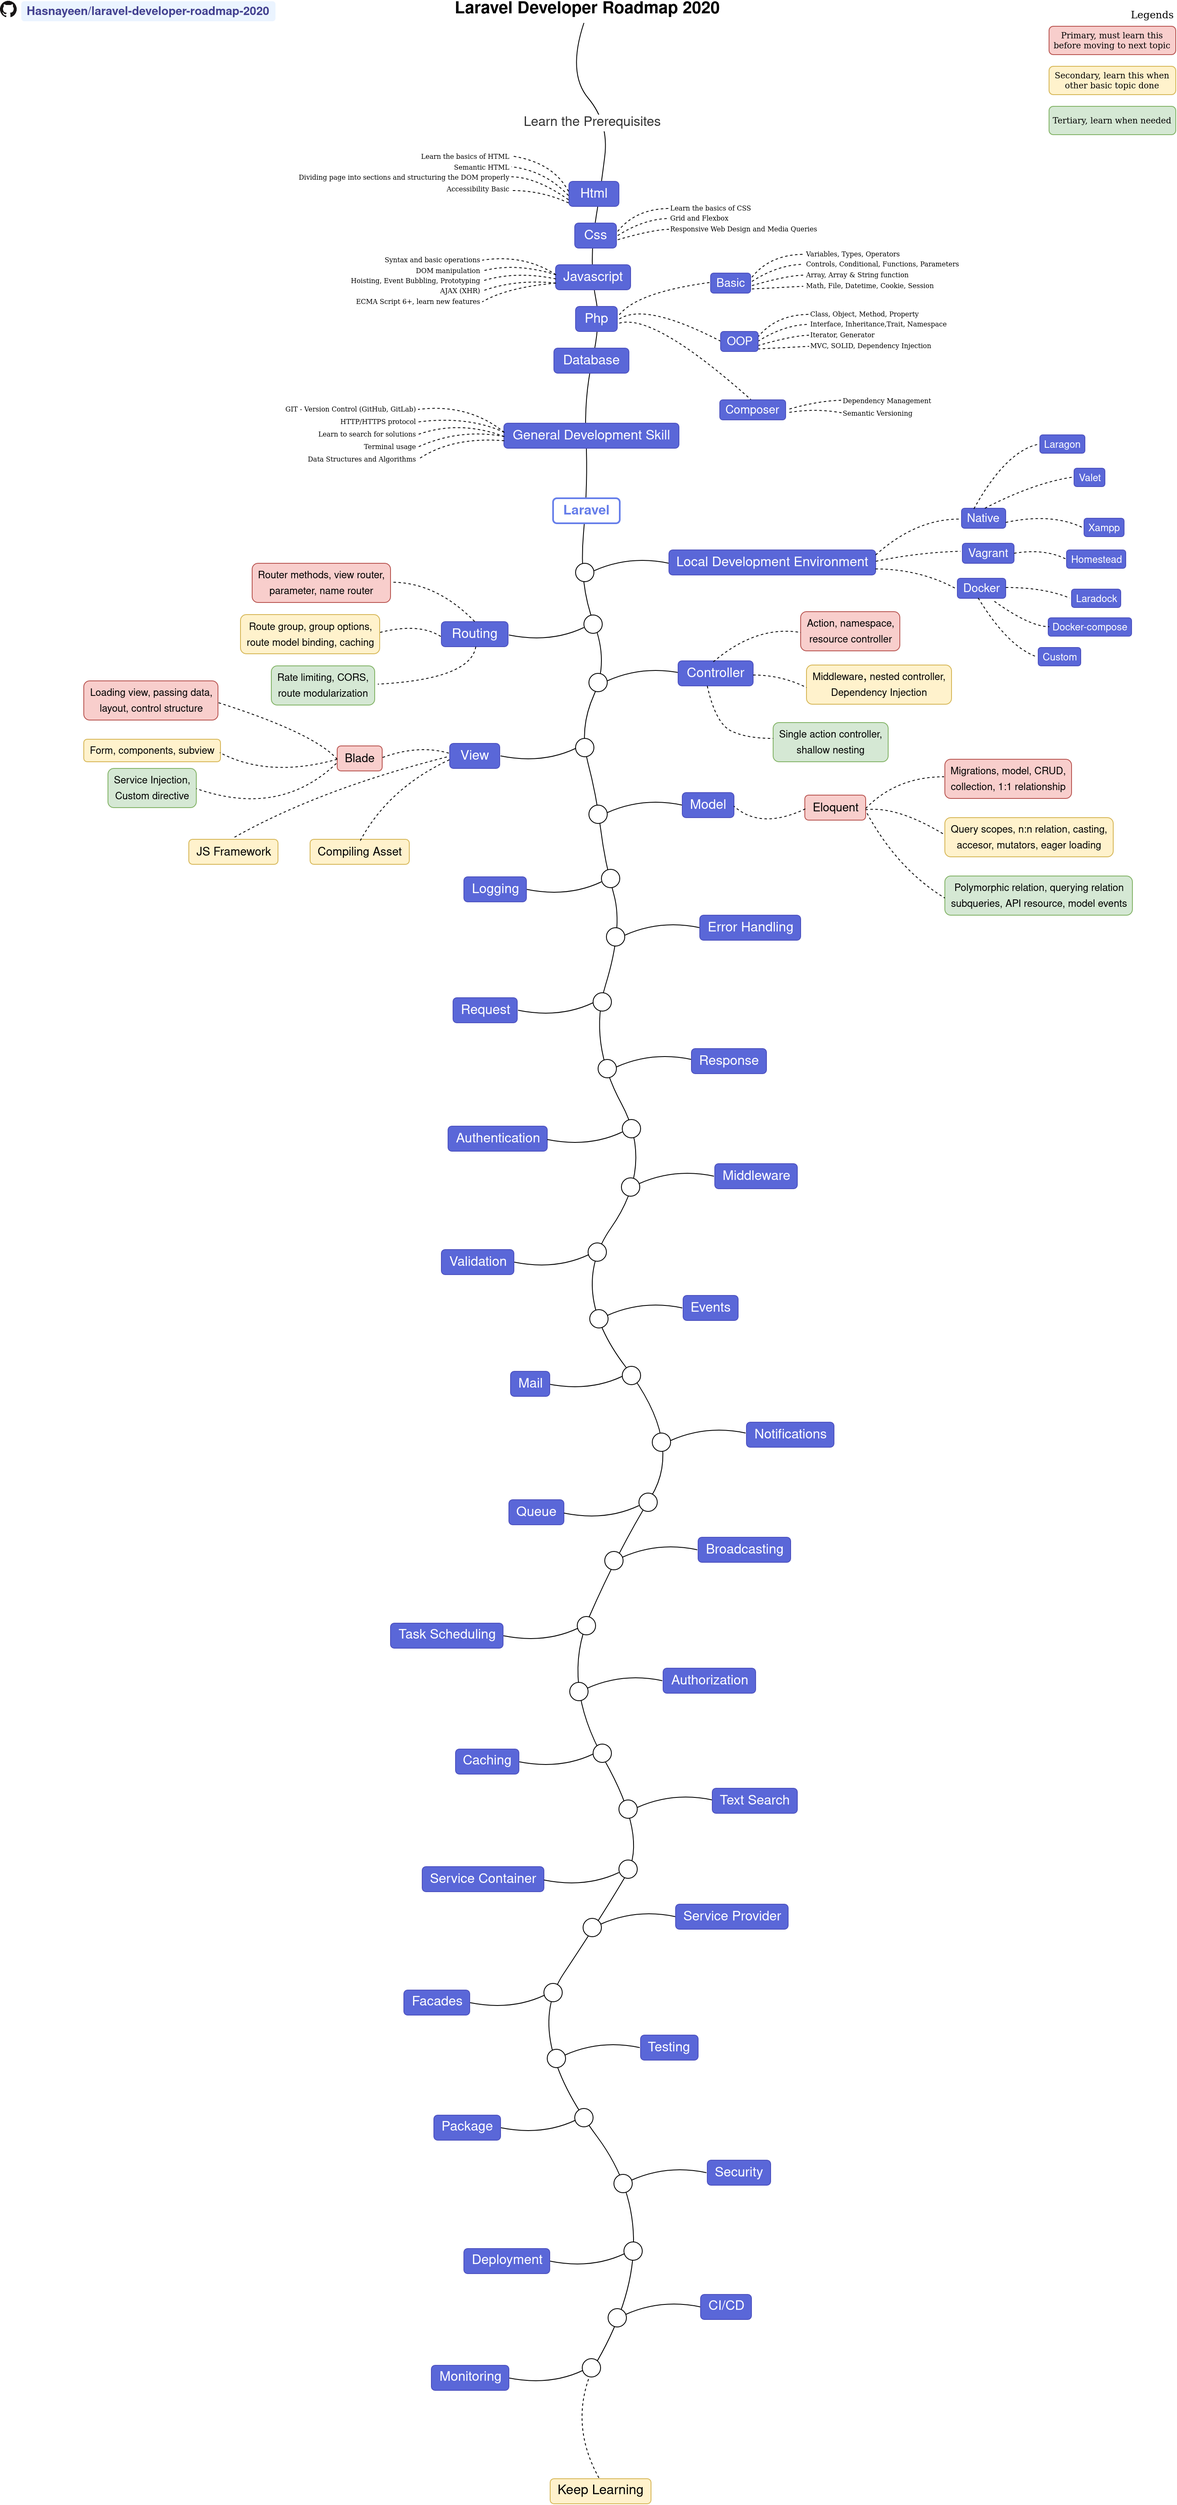
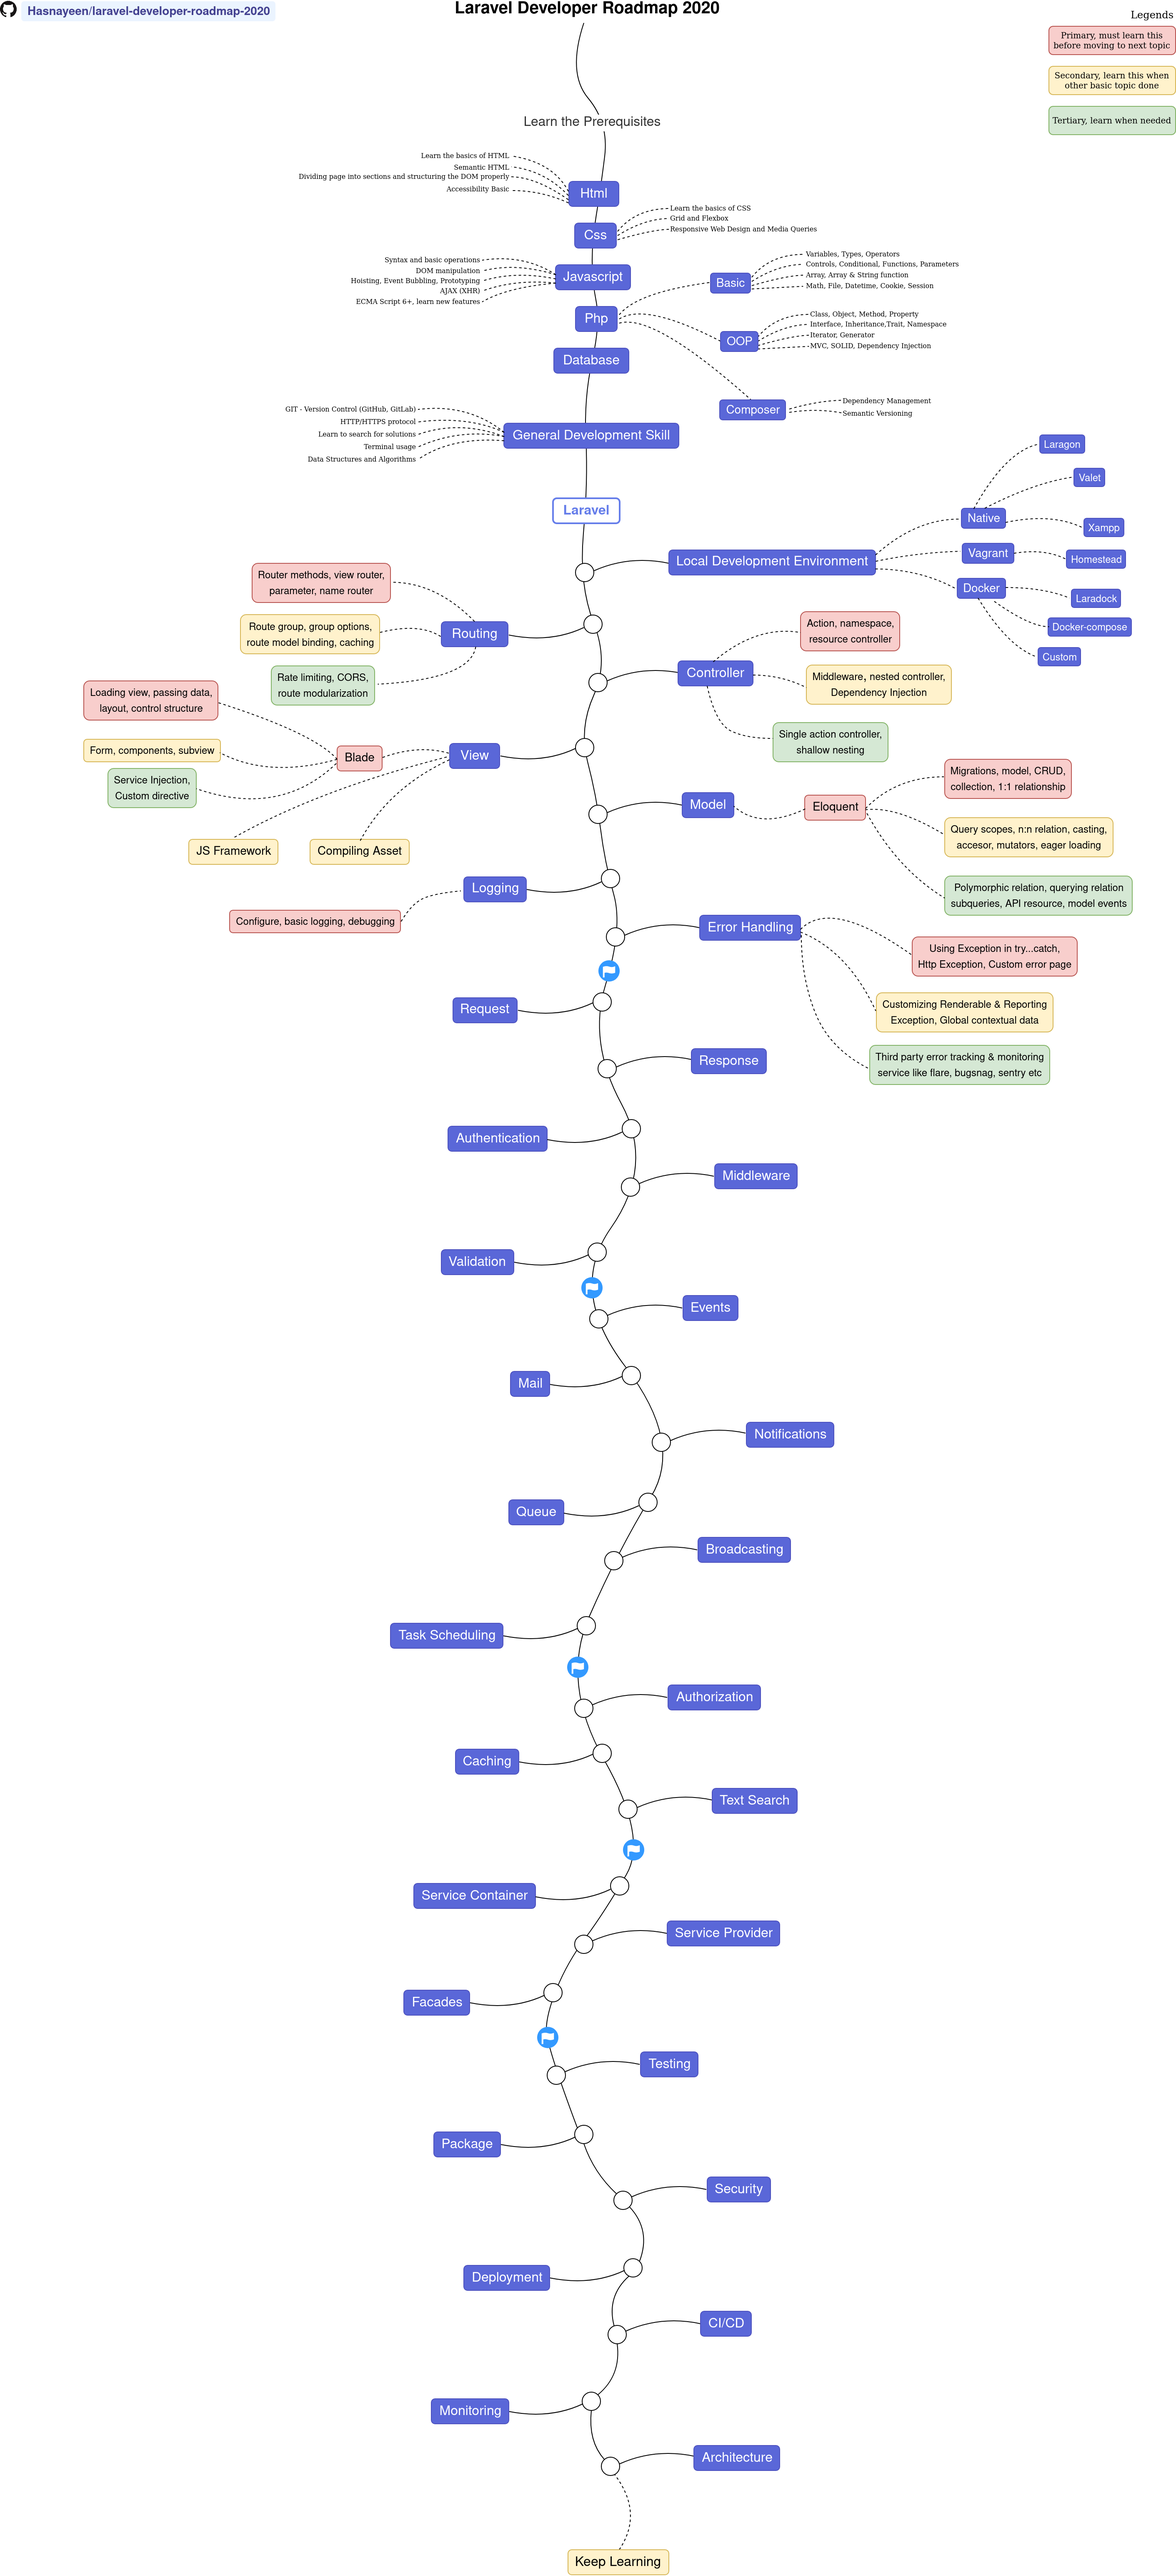
Add logging, erorr tracking section

diff --git a/README.md b/README.md
@@ -2,7 +2,7 @@
 
 ### Roadmap to becoming a Laravel developer in 2020
 
-Below is a simple roadmap charts demonstrating the paths that you can take and the technologies that you would want to adopt in order to become a larael developer.
+Below is a simple roadmap charts demonstrating the paths that you can take and the technologies that you would want to adopt in order to become a laravel developer.
 
 > This is simply a guide to give you an idea. It helps you navigate the ecosystem and pickup topics to learn as you go so that you don't get overwhelmed.
 
@@ -11,6 +11,10 @@ Roadmap for other technology can be found [here](https://github.com/liuchong/awe
 ## Roadmap
 
 ![Roadmap](./images/roadmap.png)
+
+## How to use
+
+Start at the top, if you don't know the pre requisites, first learn those. Then start at laravel and learn each topic serially. For each topic, first learn the essentials (primary, marked in red background). Then you can go to next topic and learn its essentials. After you learn first few basic topic, you can come back to first topic again and learn the secondary knowledge (marked in yellow background) and when done go to next topic and learn its secondary and so on.
 
 ## Resources
 
@@ -51,11 +55,11 @@ Roadmap for other technology can be found [here](https://github.com/liuchong/awe
     5. Read a few books about algorithms and data structures
 3. Learn about Laravel on [official website](https://laravel.com/docs) or watch this [series](https://laracasts.com/series/laravel-6-from-scratch)
 
-Coming soon.......
+More coming soon.......
 
 ## Contribution
 
-If you think the roadmap can be improved, please do open a PR with any updates and submit any issues. Also, I will continue to improve this, so you might want to star this repository to revisit.
+I tried to make this as streamlined and sequential as possible. If you think the roadmap can be improved, please do open a PR with any updates and submit any issues. Also, I will continue to improve this, so you might want to star this repository to revisit.
 
 The roadmap is built using [Draw.io](https://www.draw.io/). Project file can be found at `/src` directory. To modify it, open draw.io, click **Open Existing Diagram** and choose `xml` file with project. It will open the roadmap for you. Update it, save the xml and png(export as png) in the repo and create a PR.
 
@@ -63,6 +67,7 @@ The roadmap is built using [Draw.io](https://www.draw.io/). Project file can be 
 - Discuss ideas in issues
 - Spread the word
 - Reach out with any feedback [![Twitter URL](https://img.shields.io/twitter/url/https/twitter.com/nhasnayeen.svg?style=social&label=Follow%20%40nhasnayeen)](https://twitter.com/nhasnayeen)
+
 ## License
 
 This project is licensed under [MIT](LICENSE)
